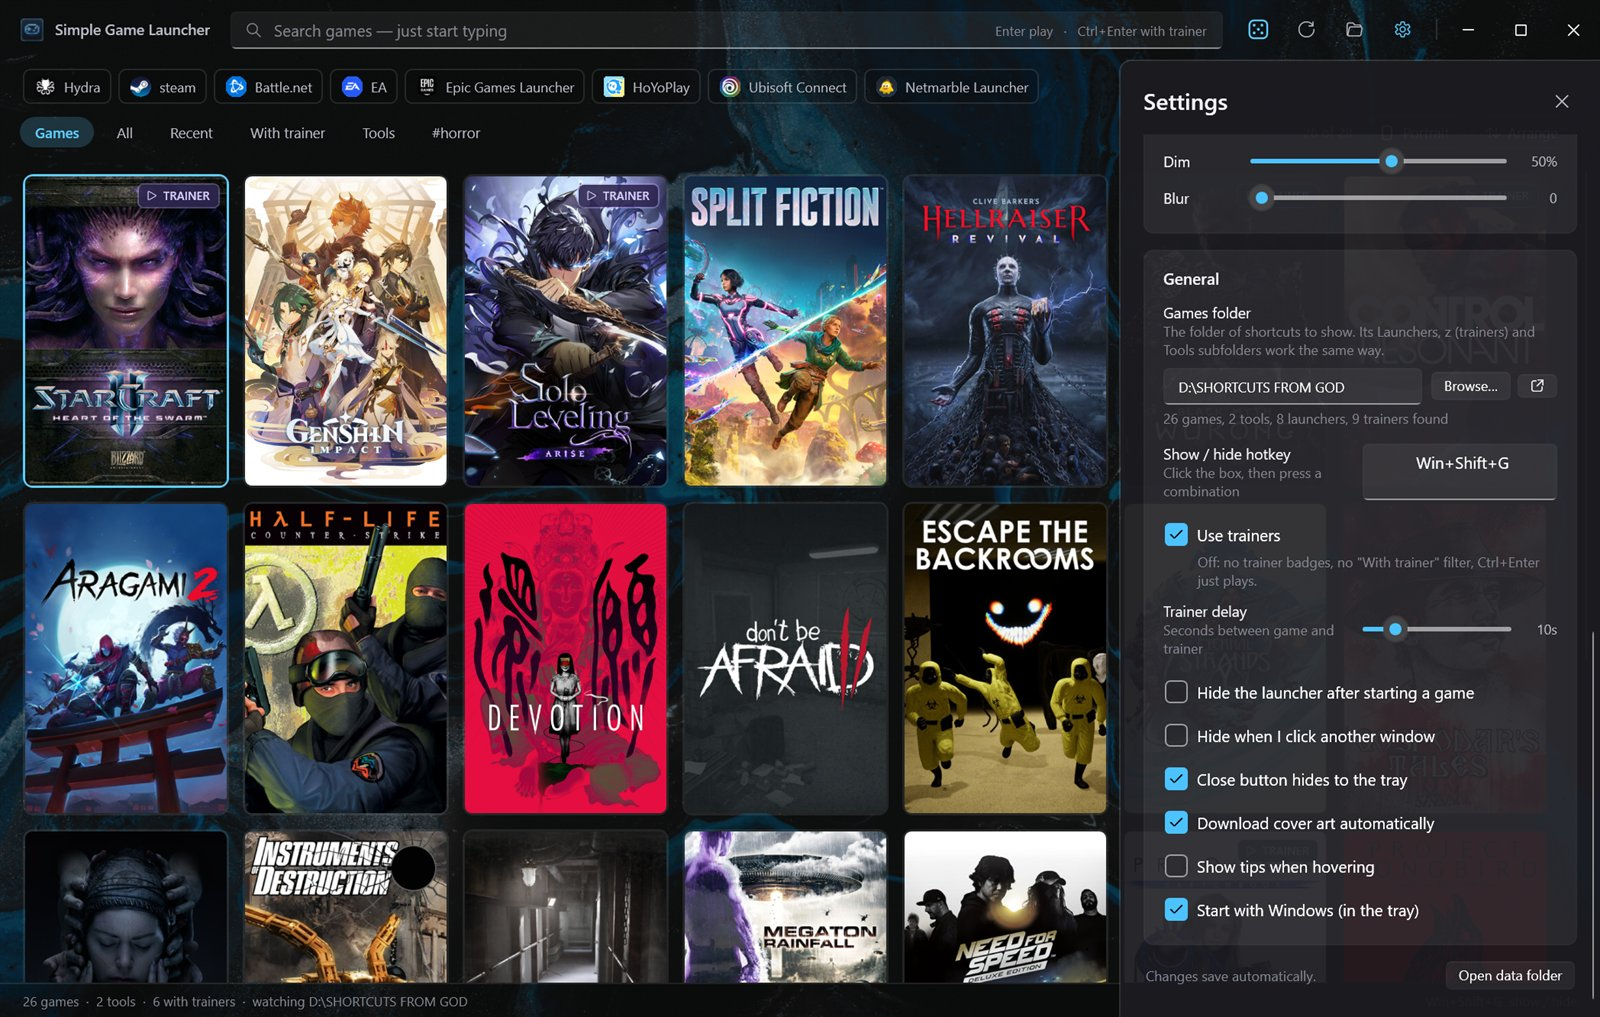
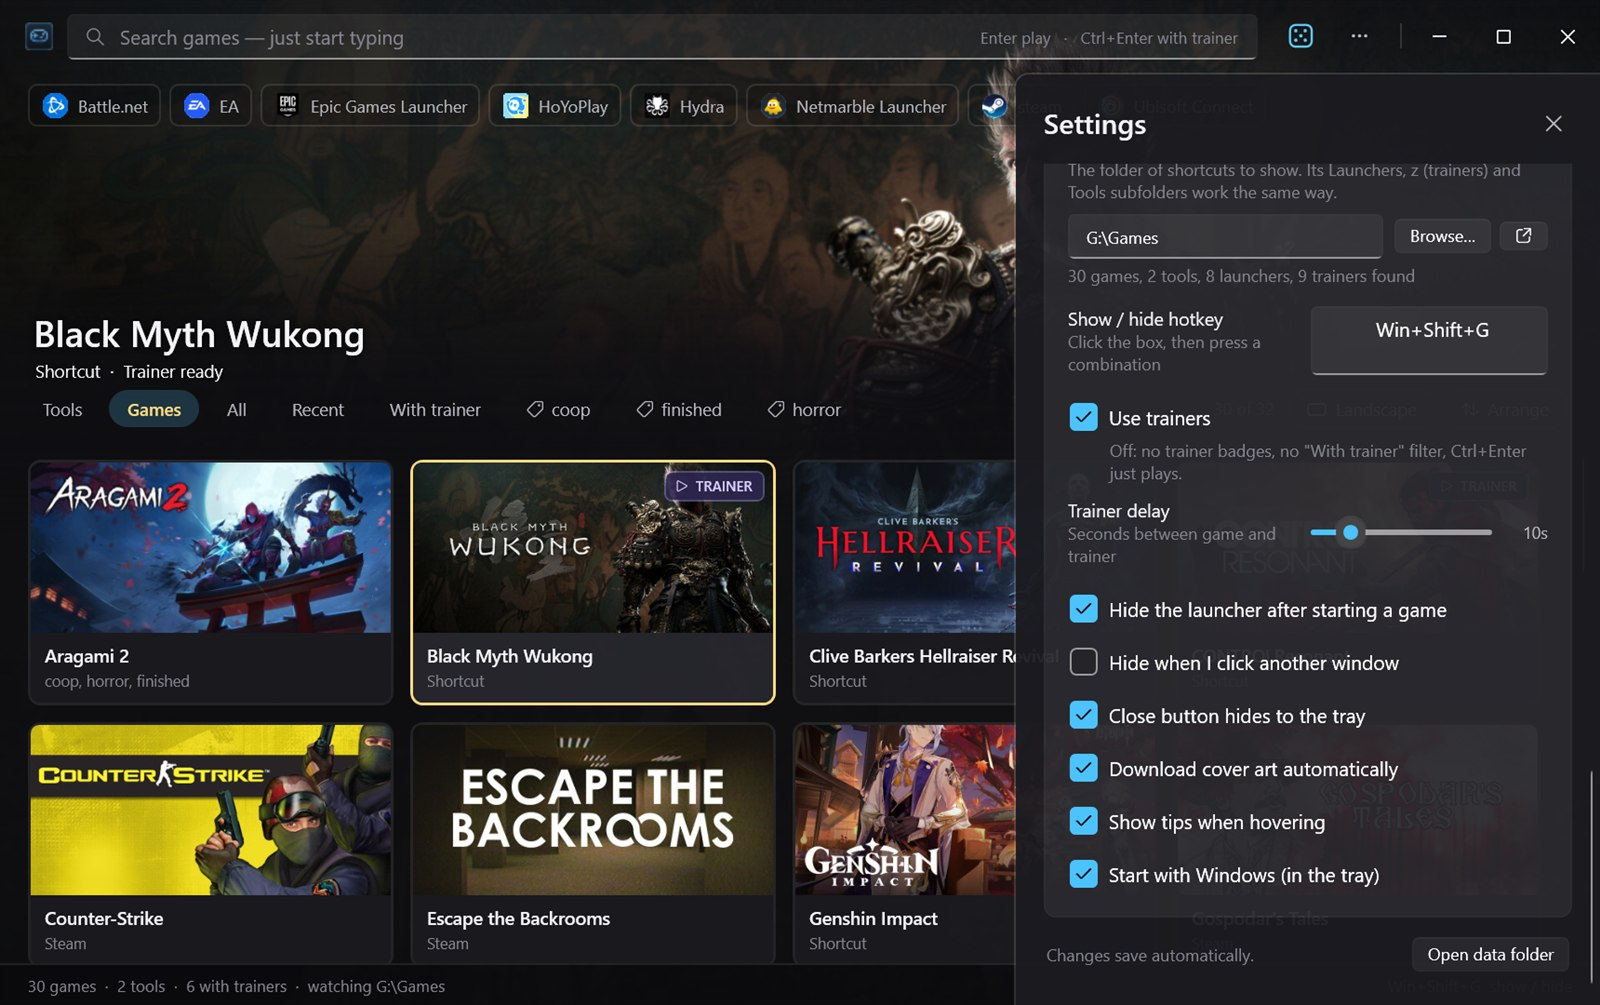
README: animated demo, getting started, FAQ, less repetition
- Animated GIF at the top: hover, spotlight, banner and accent changes,
  and a dice roll.
- Getting started: how to make shortcuts for Steam, Epic, the Start
  menu and any .exe, plus the folder layout.
- FAQ: SmartScreen, missing covers, non-games, hotkey, offline use,
  toning the look down, backups, uninstalling.
- Shorter "Why it rocks" and "What's new"; build and release notes moved
  under "For developers".
- All screenshots retaken with a neutral folder name (G:\Games).

diff --git a/README.md b/README.md
@@ -4,138 +4,125 @@
 ![Windows 11](https://img.shields.io/badge/Windows-11-0078D4)
 ![.NET 10](https://img.shields.io/badge/.NET-10-512BD4)
 
-**Your game shortcuts, as a launcher that looks like it belongs on a gaming PC.** Point it at a folder of `.lnk` / `.url` shortcuts and it becomes a fast, searchable wall of cover art. The window takes on the look of whatever game you're pointing at. No account, no store, no library import, no background services: one small exe.
+**Your game shortcuts, as a launcher that looks like it belongs on a gaming PC.** Point it at a folder of game shortcuts and it becomes a fast, searchable wall of cover art that takes on the look of whatever game you point at. No account, no store, no library import: one small exe.
 
-![Black Myth Wukong in focus: its artwork as a banner across the top, its name above the filters and the highlights in gold](docs/screenshots/main.jpg)
+![Pointing at Hellraiser, Genshin Impact and Aragami 2: each card lifts, the others dim, the banner and the accent colour change with the game, then the dice picks a random game](docs/screenshots/demo.gif)
 
 ## Why it rocks
 
-- 🎨 **Every game sets the mood.** Point at a game and its artwork appears as a big banner across the top with its name, and every highlight takes the colour of its cover.
-- ⚡ **Start typing, press Enter, you're playing.** Search by name, initials (`bmw` → Black Myth Wukong), tag or folder. A global hotkey brings it up from anywhere.
-- 🖼 **Cover art finds itself.** Steam, the Microsoft Store and GOG are searched for you, in landscape or portrait. Or pick your own art for each game.
-- 🃏 **Cards that feel alive.** They lift, glow in their own colours and show a ▶ play button. The rest of the grid dims into a spotlight.
-- 🎲 **Can't decide?** Roll the dice and let it pick.
-- 🧰 **Trainers built in.** Ctrl+Enter starts a game together with its trainer.
-- 🪶 **Light and native.** WPF on .NET 10, Windows 11 Mica, dark everywhere (even the tray menu). It never changes your shortcut files.
+- 🎨 **Every game sets the mood:** its artwork as a banner across the top, its colour on every highlight.
+- ⚡ **Type, Enter, play.** Search by name, initials (`bmw` → Black Myth Wukong), tag or folder; a global hotkey brings it up from anywhere.
+- 🖼 **Art finds itself** on Steam, the Microsoft Store and GOG, or use your own pictures.
+- 🃏 **Cards that feel alive**, a **dice** for when you can't decide, and **trainers** built in.
+- 🪶 **Light and native:** Windows 11 dark look, never touches your shortcut files.
 
 ## Download
 
 1. Get **GameLauncher.exe** from the [latest release](https://github.com/iosifv/simple-game-launcher/releases/latest).
 2. Put it in a folder of its own, for example `Documents\Game Launcher`. It keeps its settings and cover art next to itself, so avoid `Program Files`.
-3. Double-click it. On first start it asks for your games folder: the folder with your game shortcuts.
+3. Double-click it. On first start it asks for your games folder (see below).
 
-It's a single file with everything included: no installer, nothing else to install. Windows may show a SmartScreen warning because the exe isn't signed: click **More info → Run anyway**.
+It's a single file with everything included: no installer, nothing else to install. To update, replace `GameLauncher.exe` with the new one; your settings and covers are kept.
 
-To update, replace `GameLauncher.exe` with the new one. Your settings, covers and wallpapers next to it are kept.
+## Getting started: your games folder
 
-## What's new
+The launcher shows whatever shortcuts are in one folder. Make a folder (for example `Documents\Games`) and put a shortcut to each game in it:
 
-- **A new look.** The game you point at (or select) shows its artwork as a big banner across the top, with its name in the corner, and the accent colour follows its cover. Very bright artwork is toned down automatically so text stays readable.
-- **Sharp artwork for every game:** Steam games use Steam's background art, others get large art from the Microsoft Store or GOG. A picture too small to look sharp is never stretched into a blur.
-- **Your own background art:** right-click a game → **Cover → Choose background art…** to use any picture.
-- **Soft scrolling:** cards fade out under the filter row instead of being cut off.
-- **Spotlight:** the other cards dim while you point at one. You choose how much (10–90%).
-- **Compact title bar:** just search, the dice and a **⋯** menu for settings, rescan, open folder and exit.
-- **Smoother play button:** its colour fades in and out.
-- Every part of the new look has its own switch in **Settings → Look**. Turn them all off for the classic look.
+| Where the game is | How to get a shortcut |
+| --- | --- |
+| **Steam** | In your Library, right-click the game → **Manage → Add desktop shortcut**, then move the new shortcut from the desktop into your games folder. |
+| **Epic Games** | In your Library, click **⋯** on the game → **Manage** → turn on **Desktop shortcut**, then move it into the folder. |
+| **Xbox / Microsoft Store, EA, Ubisoft, Battle.net and most others** | Open the **Start menu → All**, find the game and drag it into your games folder. |
+| **Any game's `.exe`** | Hold **Alt** while dragging the `.exe` into your games folder. That makes a shortcut instead of moving the file. |
 
-Earlier in 1.0.4: hide games, Delete to the Recycle Bin, window position remembered per monitor, tag icons.
+Optional subfolders inside your games folder:
+
+```
+Games\
+├─ Some Game.lnk        ← every shortcut here is a game
+├─ Launchers\           ← Steam, Epic, EA app, … shown as buttons along the top
+├─ z\                   ← trainers, matched to games by name
+└─ Tools\               ← any other subfolder gets its own filter tab
+```
+
+Add, remove or rename a shortcut and the launcher updates within a second. It only reads your shortcuts: it never changes them (the one exception is **Delete…**, which asks first and moves the file to the Recycle Bin).
+
+## What's new in 1.0.6
+
+Big artwork banners for every game: Steam's background art, Microsoft Store / GOG art for everything else, or your own picture (**Cover → Choose background art…**). Plus a soft fade when scrolling and better readability over bright art. See the [releases page](https://github.com/iosifv/simple-game-launcher/releases) for every version.
 
 ## A tour
 
 ### Every game sets the mood
 
-Pointing at a game (or selecting it with the keyboard) shows its wide artwork as a banner across the top. Steam games use Steam's background art; other games get large art from the Microsoft Store or GOG. Got a game with no good art? Right-click it → **Cover → Choose background art…** and use any picture you like. The highlight colour glides to match the cover. Portrait cards use Steam's tall library art:
+Point at a game, or select it with the keyboard, and its wide artwork becomes a banner across the top with its name. A dark wash of it fills the rest of the window, and the highlight colour glides to match its cover.
 
-![Portrait cards with Hellraiser Revival in focus: its artwork behind the grid and a purple accent](docs/screenshots/portrait-cards.jpg)
+![Black Myth Wukong in focus: its artwork as a banner across the top, its name above the filters and the highlights in gold](docs/screenshots/main.jpg)
+
+Cards can be landscape or portrait (Steam's tall library art), with or without names:
+
+![Portrait cards with Hellraiser Revival in focus: its artwork as the banner and a purple accent](docs/screenshots/portrait-cards.jpg)
 
 ### Cards that feel alive
 
-- The card **lifts with a little spring**, a light **sweeps** across it and it **glows in its own colours**.
-- A **▶ play button** pops in: click to play, Ctrl+click to play with the trainer.
-- **Spotlight** dims the rest of the grid so the game you're pointing at stands out.
-- Cards without any cover get a soft glow in the colours of the game's icon.
-
-### A title bar that stays out of the way
-
-Search, the random-game dice and one **⋯** menu. Everything else is a click away (and Ctrl+, / F5 still work):
-
-![The ⋯ menu: Settings, Rescan folder, Open shortcuts folder, Exit](docs/screenshots/more-menu.jpg)
+The card lifts with a little spring, a light sweeps across it, it glows in its own colours and a **▶ play button** pops in (Ctrl+click plays with the trainer). **Spotlight** dims the rest of the grid. Cards without a cover get a soft glow in the colours of the game's icon.
 
 ### See the difference
 
-Each part of the look has its own switch in **Settings → Look**. Here is each one switched off and on, with everything else the same:
+Every part of the look has its own switch in **Settings → Look**. Here is each one off and on, with everything else the same.
 
-**Game art in the background.** The selected game's artwork becomes a banner across the top, with its name and details, and a dark wash of it fills the rest of the window.
+**Game art in the background**
 
 ![Game art off: the plain window over the desktop. On: Black Myth Wukong's artwork as a banner across the top, with its name above the filters](docs/screenshots/compare-hero.jpg)
 
-**Accent colour from the game.** The selection ring and the active filter take the cover's colour instead of the default blue.
+**Accent colour from the game:** the selection ring and the active filter take the cover's colour.
 
 ![Accent default: a blue ring and blue Games tab. From the game: a gold ring and gold Games tab for Black Myth Wukong](docs/screenshots/compare-accent.jpg)
 
-**Spotlight.** Point at a card and the rest of the grid steps back. You choose how much it dims, from 10 to 90%.
+**Spotlight:** the rest of the grid steps back; you choose how much (10–90%).
 
 ![Spotlight off: every card at full brightness while pointing at Hellraiser. On: the other cards dimmed](docs/screenshots/compare-spot.jpg)
 
-**Compact title bar.** Rescan, open folder and settings fold into one ⋯ menu.
+**Compact title bar:** rescan, open folder and settings fold into one ⋯ menu.
 
 ![Full title bar with rescan, folder and settings buttons, and the compact one with just the dice and a ⋯ menu](docs/screenshots/compare-header.jpg)
+
+![The ⋯ menu: Settings, Rescan folder, Open shortcuts folder, Exit](docs/screenshots/more-menu.jpg)
 
 ### Make it yours
 
 - **Arrange mode:** drag games, filter tabs and launchers into your own order. Alt+arrows nudge, Reset puts everything back A–Z.
-- **Tags** with a one-click editor. Each tag becomes its own filter, shown with a tag icon.
-- **Hide** games you don't want to see. They only show up under the **Hidden** filter, and **Show again** brings them back. **Delete…** moves a shortcut to the Recycle Bin, after asking.
-- **Landscape or portrait cards**, card size, spacing and names under the cards, all adjustable.
-- **Wallpapers** per filter, with dim and blur.
-- The window reopens **where you left it**: same monitor, same size, or maximized, even with several monitors.
+- **Tags** with a one-click editor; each tag becomes a filter.
+- **Hide** games you don't want to see (they move to a **Hidden** filter) or **Delete…** a shortcut to the Recycle Bin.
+- **Card size, shape, spacing**, names under the cards, **wallpapers** per filter.
+- The window reopens **where you left it**, even across several monitors.
 
 ![Arrange mode: drag handles on every game, filter tab and launcher](docs/screenshots/arrange.jpg)
 
-| Look: art, accent, spotlight, title bar | Cards, spacing, scrolling and the dice | General: trainers, tips and more |
+| Look | Cards and scrolling | General |
 | --- | --- | --- |
-| ![Settings → Look: game art in the background, accent colour from the game, spotlight with a dim slider, compact title bar](docs/screenshots/settings-look.jpg) | ![Settings: card size, shape, spacing, one-row scrolling and the random-game dice colour](docs/screenshots/settings.jpg) | ![Settings: games folder, hotkey, use trainers, trainer delay, show tips and other options](docs/screenshots/settings-general.jpg) |
+| ![Settings → Look: game art in the background, accent colour from the game, spotlight with a dim slider, compact title bar](docs/screenshots/settings-look.jpg) | ![Settings: card size, shape, names under the cards, spacing and one-row scrolling](docs/screenshots/settings.jpg) | ![Settings: games folder, hotkey, use trainers, trainer delay, show tips and other options](docs/screenshots/settings-general.jpg) |
 
 ### Find and start games fast
 
-- **Just start typing** to search. Enter plays, Ctrl+Enter plays with the trainer.
-- **The dice** picks a random game from the filter you're on (and can start it for you). Pick its colour in Settings.
-- **Launcher bar** with your store apps (Steam, Epic, EA, Battle.net, …) from a `Launchers` subfolder.
-- **Filters:** Games, All, Recent, With trainer, one per subfolder (e.g. `Tools`), one per tag, and Hidden.
-- **Global hotkey** (default `Win+Shift+G`) and a dark tray menu.
-- **Live folder watching:** add, remove or rename a shortcut and the grid updates within a second.
-- The mouse wheel can **scroll one row at a time**.
+- **Just start typing** to search; Enter plays.
+- **The dice** picks a random game from the filter you're on, and can start it for you.
+- **Filters:** Games, All, Recent, With trainer, one per subfolder, one per tag, and Hidden.
+- **Global hotkey** (default `Win+Shift+G`) and a tray icon; start with Windows if you like.
 
 ### Trainers
 
-- Put trainers in a `z` subfolder: `.exe` files with "trainer" in the name, or any shortcut (`.lnk` / `.url`). They're matched to games by name and get a TRAINER badge.
-- **Ctrl+Enter** (or Ctrl+click on ▶) starts the game, then the trainer after a delay you choose.
-- Don't use trainers? Switch them off in Settings: the badges, the "With trainer" filter and the trainer menus disappear.
-
-## Folder layout it understands
-
-```
-My Games Folder\
-├─ Some Game.lnk           ← games (any .lnk / .url)
-├─ Another Game.url
-├─ Launchers\              ← shown as the launcher bar
-├─ z\                      ← trainers (*Trainer*.exe, or any .lnk / .url), matched to games by name
-└─ Tools\                  ← any other subfolder becomes its own filter tab
-                             (Tools is excluded from the Games filter)
-```
-
-Shortcuts themselves are never modified: the launcher only reads them. The one exception is **Delete…**, which asks first and moves the file to the Recycle Bin.
+Put trainers in the `z` subfolder: `.exe` files with "trainer" in the name, or any shortcut. They're matched to games by name and get a TRAINER badge. **Ctrl+Enter** (or Ctrl+click on ▶) starts the game, then the trainer after a delay you choose. Don't use trainers? Switch them off in Settings and every trace of them disappears.
 
 ## Where the artwork comes from
 
 | Source | Used for |
 | --- | --- |
-| Your own image | Always wins. Set per shape (landscape / portrait) from the tile's **Cover** menu, or search with **Find cover online…**. |
+| Your own image | Always wins. Right-click a game → **Cover**: a landscape image, a portrait image and background art, each separately. Or search with **Find cover online…**. |
 | Steam | Steam games: the app id from a `steam://` link, otherwise an exact name match. Covers, tall library art and the wide background art. |
-| Microsoft Store, GOG | Games Steam doesn't have, by exact name. Also searchable in **Find cover online…**. |
+| Microsoft Store, GOG | Games Steam doesn't have, by exact name, including large background art. |
 
-Epic doesn't allow outside apps to search its store, but many Epic games are also on the Microsoft Store and are found there. Everything downloaded is cached in `covers\` next to the exe.
+Epic doesn't let outside apps search its store, but many Epic games are also on the Microsoft Store and are found there. Everything downloaded is cached in `covers\` next to the exe.
 
 ## Keyboard
 
@@ -150,16 +137,35 @@ Epic doesn't allow outside apps to search its store, but many Epic games are als
 | Ctrl+, | settings |
 | F5 | rescan |
 
-## Data
+## FAQ
 
-Everything the launcher remembers lives next to the exe: `launcher-data.json` (settings, tags, trainer choices, play history, custom order, hidden games), `covers\` and `wallpapers\`. To move it to another PC, copy the folder.
+**Windows says the app might be unsafe.**
+The exe isn't code-signed, so SmartScreen warns about it. Click **More info → Run anyway**. It's built from this repository by GitHub Actions; you can check the [workflow](.github/workflows/release.yml).
 
-## Requirements
+**A game has no cover, or the wrong one.**
+Right-click it → **Cover → Find cover online…** to search Steam, the Microsoft Store and GOG and pick a landscape and a portrait picture. You can also choose any image file, and set background art the same way.
 
-- Windows 11 (Windows 10 works without the Mica background), 64-bit
-- To build from source: .NET 10 SDK. The release exe needs nothing extra; a build with `--self-contained false` needs the [.NET 10 Desktop Runtime](https://dotnet.microsoft.com/download/dotnet/10.0).
+**Something that isn't a game shows up under Games.**
+Move its shortcut into a subfolder such as `Tools` (it gets its own filter and stays out of Games), or right-click it → **Hide**.
 
-## Build and run
+**The hotkey doesn't work.**
+Another app probably uses it. Pick a different one in **Settings → General → Hotkey**; it tells you if a combination is taken.
+
+**Does it need the internet?**
+Only to download artwork, once per game. Turn off **Download cover art automatically** in Settings to keep it fully offline.
+
+**It's too flashy for me.**
+Switch any part of the look off in **Settings → Look**, and hover tips in **Settings → General**.
+
+**Where are my settings, and how do I back them up or move them?**
+Everything lives next to the exe: `launcher-data.json` (settings, tags, trainers, play history, order, hidden games), `covers\` and `wallpapers\`. Copy the whole folder.
+
+**How do I uninstall it?**
+Untick **Start with Windows** in Settings, exit from the tray icon, and delete the folder. Nothing else is installed.
+
+## For developers
+
+Requirements: Windows 11 (Windows 10 works without the Mica background), the .NET 10 SDK. The release exe is self-contained; a build with `--self-contained false` needs the [.NET 10 Desktop Runtime](https://dotnet.microsoft.com/download/dotnet/10.0).
 
 ```powershell
 dotnet run                                   # debug run
@@ -167,13 +173,9 @@ dotnet publish -c Release -r win-x64 --self-contained false `
   -p:PublishSingleFile=true -p:IncludeNativeLibrariesForSelfExtract=true -p:DebugType=none -o app
 ```
 
-The published `app\GameLauncher.exe` is a single file. On first start it opens Settings so you can pick your games folder.
-
-## Releasing
-
-Push a version tag and GitHub Actions builds the self-contained exe and publishes the release:
+To release, push a version tag; GitHub Actions builds the exe and publishes the release:
 
 ```powershell
-git tag v1.0.6
-git push origin v1.0.6
+git tag v1.0.7
+git push origin v1.0.7
 ```
